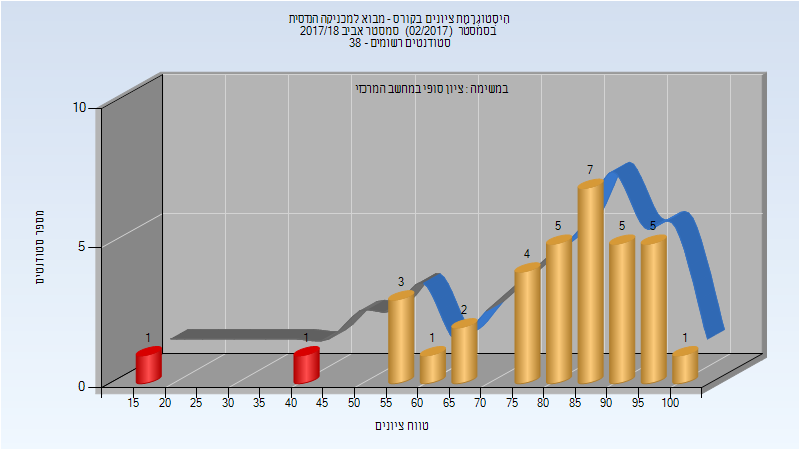
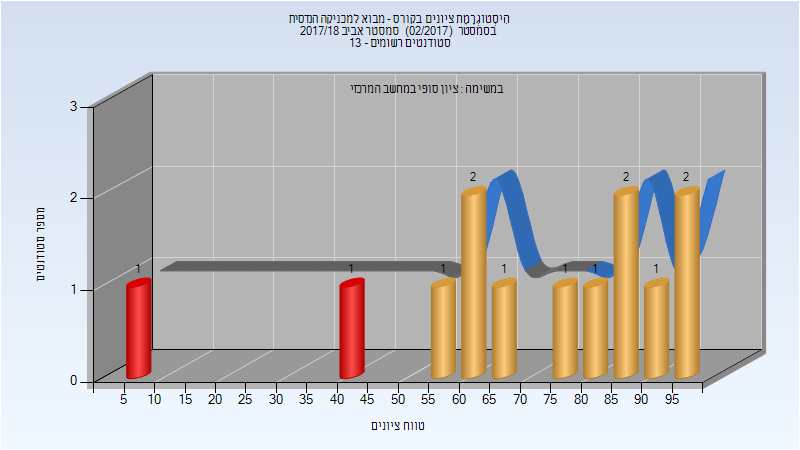
Deploy michael-maltsev/technion-histograms to github.com/michael-maltsev/technion-histograms.git:gh-pages

diff --git a/125013/index.html b/125013/index.html
@@ -997,6 +997,89 @@
 </tr>
 </tbody>
 </table>
+<h2>חורף 2019-2020</h2>
+<table>
+<thead>
+<tr>
+<th>איש סגל</th>
+<th>תפקיד</th>
+</tr>
+</thead>
+<tbody>
+<tr>
+<td>שמידט אשר</td>
+<td>מדריך מעבדה - עם הרשאות מרצה אחראי</td>
+</tr>
+<tr>
+<td>זלנר-יפע משה מיכאל</td>
+<td>מדריך מעבדה</td>
+</tr>
+<tr>
+<td>אטרש מוחמד</td>
+<td>מדריך מעבדה</td>
+</tr>
+<tr>
+<td>גולובצקי אנסטסיה</td>
+<td>מדריך מעבדה</td>
+</tr>
+<tr>
+<td>הלוי גבריאלה</td>
+<td>סגל מנהלי - עם הרשאות מרצה אחראי</td>
+</tr>
+</tbody>
+</table>
+<h3>סופי מועד א'</h3>
+<p><img src="201901/Final_A.png" alt="201901 Final_A" /></p>
+<table>
+<thead>
+<tr>
+<th>סטודנטים</th>
+<th>עברו/נכשלו</th>
+<th>אחוז עוברים</th>
+<th>ציון מינימלי</th>
+<th>ציון מקסימלי</th>
+<th>ממוצע</th>
+<th>חציון</th>
+</tr>
+</thead>
+<tbody>
+<tr>
+<td>27</td>
+<td>27/0</td>
+<td>100</td>
+<td>76</td>
+<td>97</td>
+<td>91.185</td>
+<td>92</td>
+</tr>
+</tbody>
+</table>
+<h3>סופי</h3>
+<p><img src="201901/Finals.png" alt="201901 Finals" /></p>
+<table>
+<thead>
+<tr>
+<th>סטודנטים</th>
+<th>עברו/נכשלו</th>
+<th>אחוז עוברים</th>
+<th>ציון מינימלי</th>
+<th>ציון מקסימלי</th>
+<th>ממוצע</th>
+<th>חציון</th>
+</tr>
+</thead>
+<tbody>
+<tr>
+<td>28</td>
+<td>28/0</td>
+<td>100</td>
+<td>55</td>
+<td>97</td>
+<td>89.893</td>
+<td>93</td>
+</tr>
+</tbody>
+</table>
 <h2>אביב 2020</h2>
 <table>
 <thead>

diff --git a/014103/index.html b/014103/index.html
@@ -801,13 +801,13 @@
 </thead>
 <tbody>
 <tr>
-<td>35</td>
-<td>33/2</td>
-<td>94</td>
-<td>19</td>
-<td>100</td>
-<td>80.286</td>
-<td>83</td>
+<td>13</td>
+<td>11/2</td>
+<td>85</td>
+<td>6</td>
+<td>98</td>
+<td>70</td>
+<td>77</td>
 </tr>
 </tbody>
 </table>

diff --git a/125013/README.md b/125013/README.md
@@ -293,6 +293,32 @@
 | ---- | ---- | ---- | ---- | ---- | ---- | ---- |
 | 277 | 274/3 | 99 | 34 | 98 | 89.704 | 91 |
 
+## חורף 2019-2020
+
+| איש סגל | תפקיד |
+| ---- | ---- |
+| שמידט אשר | מדריך מעבדה - עם הרשאות מרצה אחראי |
+| זלנר-יפע משה מיכאל | מדריך מעבדה |
+| אטרש מוחמד | מדריך מעבדה |
+| גולובצקי אנסטסיה | מדריך מעבדה |
+| הלוי גבריאלה | סגל מנהלי - עם הרשאות מרצה אחראי |
+
+### סופי מועד א'
+
+![201901 Final_A](201901/Final_A.png)
+
+| סטודנטים | עברו/נכשלו | אחוז עוברים | ציון מינימלי | ציון מקסימלי | ממוצע | חציון |
+| ---- | ---- | ---- | ---- | ---- | ---- | ---- |
+| 27 | 27/0 | 100 | 76 | 97 | 91.185 | 92 |
+
+### סופי
+
+![201901 Finals](201901/Finals.png)
+
+| סטודנטים | עברו/נכשלו | אחוז עוברים | ציון מינימלי | ציון מקסימלי | ממוצע | חציון |
+| ---- | ---- | ---- | ---- | ---- | ---- | ---- |
+| 28 | 28/0 | 100 | 55 | 97 | 89.893 | 93 |
+
 ## אביב 2020
 
 | איש סגל | תפקיד |

diff --git a/014103/README.md b/014103/README.md
@@ -254,7 +254,7 @@
 
 | סטודנטים | עברו/נכשלו | אחוז עוברים | ציון מינימלי | ציון מקסימלי | ממוצע | חציון |
 | ---- | ---- | ---- | ---- | ---- | ---- | ---- |
-| 35 | 33/2 | 94 | 19 | 100 | 80.286 | 83 |
+| 13 | 11/2 | 85 | 6 | 98 | 70 | 77 |
 
 ## חורף 2018-2019
 
